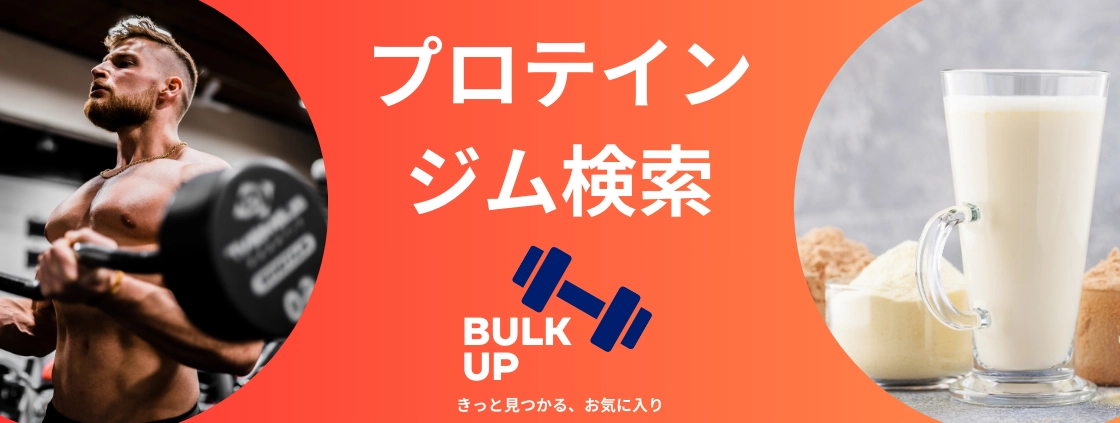
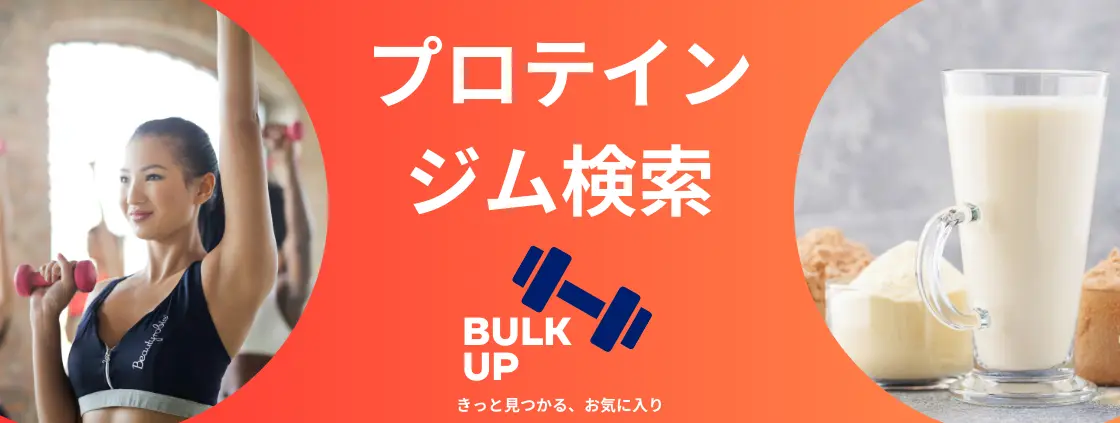
フロントページのジムリスト見直し

Changed region(s): [[0.0, 0.0, 0.3125, 1.0], [0.4688, 0.1537, 0.5, 0.1844]]

diff --git a/src/scss/object/utility/_form.scss b/src/scss/object/utility/_form.scss
@@ -47,7 +47,6 @@ input[type="checkbox"]:checked + .checkbox01::after {
 }
 /* ラジオボックス01 */
 input[type="radio"] {
-  -webkit-appearance: auto;
 }
 .radio01 {
   box-sizing: border-box;
@@ -87,43 +86,33 @@ input[type="radio"] {
 input[type="radio"]:checked + .radio01::after {
   opacity: 1;
 }
-.request {
-  font-size: 1.5em;
-}
 .must {
+  line-height: 1;
   font-size: 0.7em;
-  padding: 2px 6px;
+  padding: 4px 6px;
   background: $darkpink;
-  color: #ffffff;
+  color: $white;
   border-radius: 5px;
   margin-left: 10px;
   display: inline-block;
 }
-
-#cf7-area {
-  input[type="text"] {
-    background: $lightblue;
-    width: 500px;
-    margin-left: 10px;
-    -webkit-appearance: auto;
-    border-color: #191970;
-  }
-}
-
 #cf7-area input[type="text"],
 #cf7-area input[type="email"],
 #cf7-area input[type="tel"],
 #cf7-area textarea:focus {
-  background: #ffe4e1;
-  border: 2px solid #ff1493;
+  -webkit-appearance: auto;
+  background: $white;
+  border: 1px solid $glay;
+  border-radius: 5px;
   outline: 0;
+  width: 100%;
+  max-width: 100%;
 }
 #cf7-area input[type="text"]:focus,
 #cf7-area input[type="email"]:focus,
 #cf7-area input[type="tel"]:focus,
 #cf7-area textarea:focus {
-  background: #ffe4e1;
-  border: 2px solid #ff1493;
+  border: 2px solid $lightpink;
   outline: 0;
 }
 
@@ -134,11 +123,6 @@ input[type="radio"]:checked + .radio01::after {
 
 #cf7-area .wpcf7-list-item {
   display: block;
-}
-
-#cf7-area textarea {
-  height: 200px;
-  padding: 0.625em 0.4375em;
 }
 
 .cf7-accept-check {
@@ -154,21 +138,31 @@ input[type="radio"]:checked + .radio01::after {
 
 #cf7-area input[type="submit"] {
   width: 100%;
-  background-color: #191970;
-  color: #ffffff;
+  background-color: $darkblue;
+  color: $white;
   border-radius: 5px;
   font-size: 1.2em;
-  padding: 1em 10px;
+  padding: 10px 0;
 }
 
 #cf7-area input[type="submit"]:hover {
-  background-color: #ffffff;
-  border: 2px solid #191970;
-  color: #191970;
+  background-color: $white;
+  border: 2px solid $darkblue;
+  color: $darkblue;
+  cursor: pointer;
 }
 
 .cf7-btn {
   width: 40%;
-  margin: 0 auto;
+  margin: 10px auto;
+  max-height: 15px;
   text-align: center;
+}
+.request {
+  line-height: 1;
+}
+.cf7-title {
+  display: flex;
+  align-items: center;
+  margin: 5px 0;
 }

diff --git a/src/scss/object/utility/_list.scss b/src/scss/object/utility/_list.scss
@@ -27,3 +27,17 @@
     }
   }
 }
+.point-waku {
+  li {
+    padding: 0 10px;
+    @media only screen and (max-width: 480px) {
+      margin-top: 10px;
+    }
+    &::before {
+      font-family: "Font Awesome 5 Free";
+      content: "\f04b";
+      font-weight: 900;
+      margin-right: 10px;
+    }
+  }
+}

diff --git a/src/scss/object/project/_frontpage.scss b/src/scss/object/project/_frontpage.scss
@@ -100,3 +100,11 @@ td.searchtd {
   font-size: 1.5rem;
   font-weight: 700;
 }
+.point-waku {
+  background-color: $lightyellow;
+  margin: 15px;
+  padding: 10px;
+  @media only screen and (max-width: 480px) {
+    margin: 10px 0;
+  }
+}

diff --git a/src/scss/object/project/_page.scss b/src/scss/object/project/_page.scss
@@ -27,13 +27,15 @@ ul.page-privacy {
 }
 .page_base {
   margin: 30px auto;
-  padding: 36px 42px;
+  padding: 16px 42px 36px;
   border-radius: 10px;
   box-shadow: 0 0 8px gray;
+  margin: 10px 30px;
   //background-color: #fffbfa;
   //border: solid 1px #fffbfa;
   @media only screen and (max-width: 767px) {
     padding: 24px 0;
+    margin: 0;
   }
 }
 .page_inner {

diff --git a/front-page.php b/front-page.php
@@ -25,9 +25,14 @@
               <div>住所：<?php the_field('address'); ?></div>
               <div>アクセス:<?php the_field('access'); ?></div>
             </div>
+            <div class="setsubi">
+              <ul><?php foreach(get_field('facility')as $data):?>
+                <li><?php echo $data;?></li><?php endforeach;?>
+              </ul>
+            </div>
             <div class="gymlist-detail">
               <div class="detailthum"><?php the_post_thumbnail(); ?></div>
-              <div>
+              <div class="detailpoint-waku">
                 <table class="table-pc">
                   <tr> 
                     <th>営業時間</th>
@@ -60,12 +65,16 @@
                     <td><?php the_field('price1'); ?></td>
                   </tr>
                 </table>
-              </div>
-            </div>
-            <div class="setsubi">設備
-              <ul><?php foreach(get_field('facility')as $data):?>
-                <li><?php echo $data;?></li><?php endforeach;?>
-              </ul><?php if (!empty(get_field('aflink'))) :?>
+                <div class="point-waku">
+                  <ul><?php if (!empty(get_field('point1_title'))) :?>
+                    <li>
+                      <?php the_field('point1_title'); ?><?php endif; ?><?php if (!empty(get_field('point2_title'))) :?></li>
+                    <li>
+                      <?php the_field('point2_title'); ?><?php endif; ?><?php if (!empty(get_field('point3_title'))) :?></li>
+                    <li><?php the_field('point3_title'); ?><?php endif; ?> </li>
+                  </ul>
+                </div>
+              </div><?php if (!empty(get_field('aflink'))) :?>
             </div>
             <div class="gymlist-bottum">
               <button class="btn2-blue"><a href="<?php the_field('aflink'); ?>">見学やお申込みはこちらから</a></button>
@@ -102,7 +111,7 @@
             <div class="gymlist-name"><a href="<?php the_permalink(); ?>"><?php the_field('name'); ?></a></div>
             <div class="gymlist-detail">
               <div class="detailthum"> <img src="<?php if (!empty(get_field('photo01'))) :?><?php echo get_template_directory_uri(); ?>/assets/img/protein/<?php the_field('photo01'); ?>.webp<?php endif; ?>" alt="<?php the_field('altphoto01'); ?>"></div>
-              <div> 
+              <div>
                 <table class="table-pc">
                   <tr> 
                     <th>1食分の量</th>

diff --git a/page-contact.php b/page-contact.php
@@ -10,7 +10,7 @@
           <div class="page_inner"><?php echo do_shortcode('[contact-form-7 id="63c45cd" title="publish-request"]'); ?></div>
           <script>
             document.addEventListener('wpcf7mailsent', function(event) {
-              location = 'http://bulkup.local/';
+              location = '<?php echo home_url(); ?>/thanks';
             }, false);
           </script>
         </div>